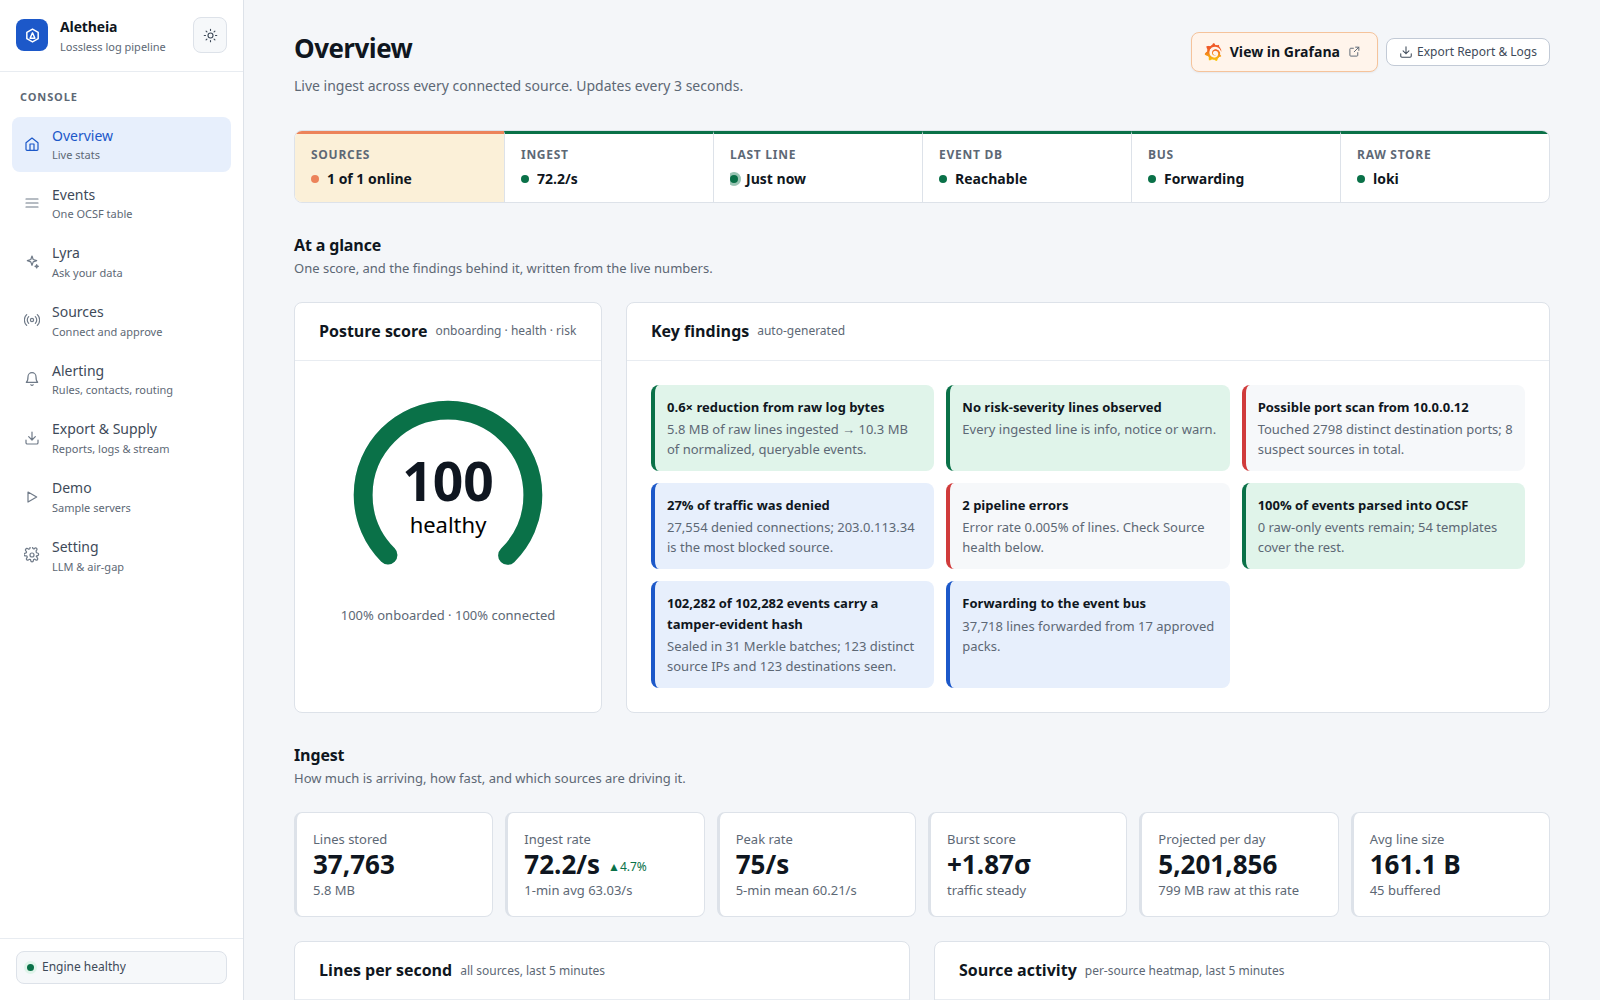
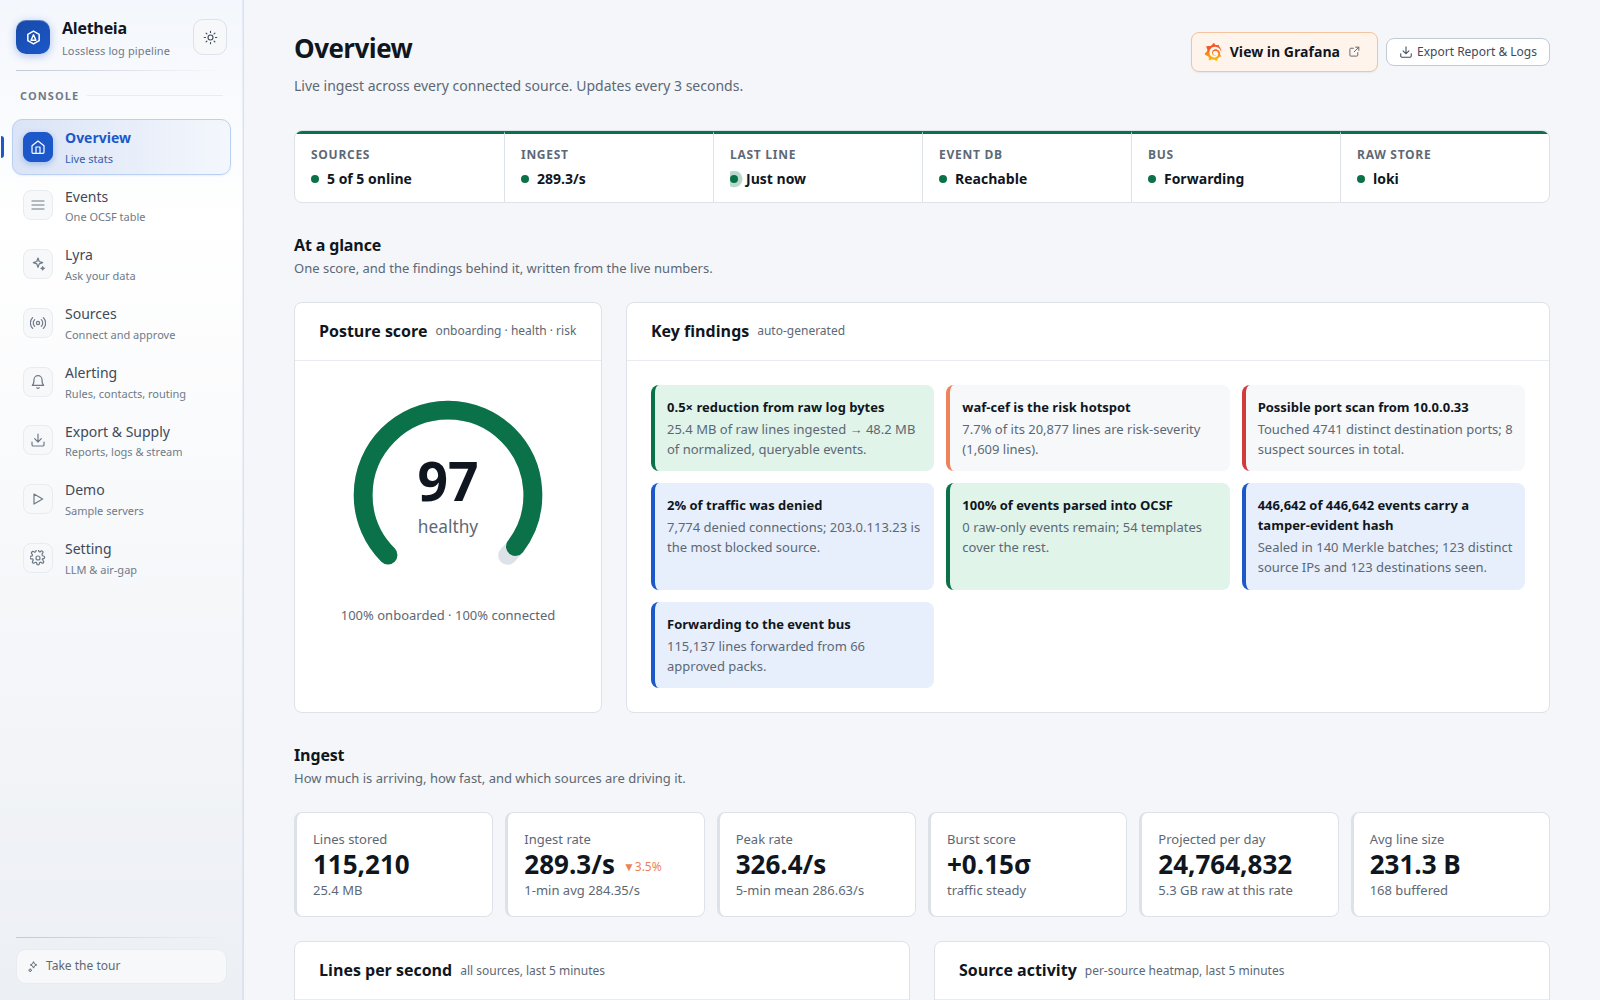
Refresh dashboard screenshot and add root level screenshot gallery for Studio and Grafana

diff --git a/screenshots/README.md b/screenshots/README.md
@@ -1,0 +1,75 @@
+# Screenshots
+
+Captured from a live local stack: five sources connected and approved across five transports
+(TCP, HTTP NDJSON, Loki pull, REST cursor, UDP syslog), ~290 lines/s, zero ingest errors,
+100% of events parsed into OCSF, posture score 97. All 3200x2000 (1600x1000 at 2x), dark theme.
+
+The README's own screenshot is `docs/assets/dashboard-overview.png` (light theme, 1600x1000).
+
+---
+
+## Studio
+
+### 01. Overview
+
+Posture score, auto-written findings and live ingest KPIs.
+
+![Overview](01-overview-dark.png)
+
+### 02. Events Explorer
+
+Normalized OCSF records, each traceable back to its raw line.
+
+![Events Explorer](02-events-explorer-dark.png)
+
+### 03. Sources
+
+Five transports at once, each with its own severity mix and error count.
+
+![Sources](03-sources-connected-dark.png)
+
+### 04. Lyra
+
+Ask-your-data console with the read-only guard active.
+
+![Lyra](04-lyra-dark.png)
+
+### 05. Export & Supply
+
+Evidence-grade datasets, generated reports and the live SIEM feed.
+
+![Export and Supply](05-export-supply-dark.png)
+
+### 06. Alerting
+
+Grafana-synced rules with health and state at a glance.
+
+![Alerting](06-alerting-rules-dark.png)
+
+### 07. Landing
+
+Hero statement over the animated fiber field.
+
+![Landing hero](07-landing-hero-dark.png)
+
+---
+
+## Grafana
+
+### 08. Overview
+
+Ingest rate, per-source activity, severity over time and share of volume.
+
+![Grafana Overview](08-grafana-overview-dark.png)
+
+### 09. Pipeline health
+
+Reconstruct mismatch holding at 0 beside sustained throughput.
+
+![Grafana Pipeline health](09-grafana-pipeline-health-dark.png)
+
+### 10. Logs (Loki)
+
+Raw ingest by source and by severity, straight from the raw store.
+
+![Grafana Logs](10-grafana-logs-loki-dark.png)
